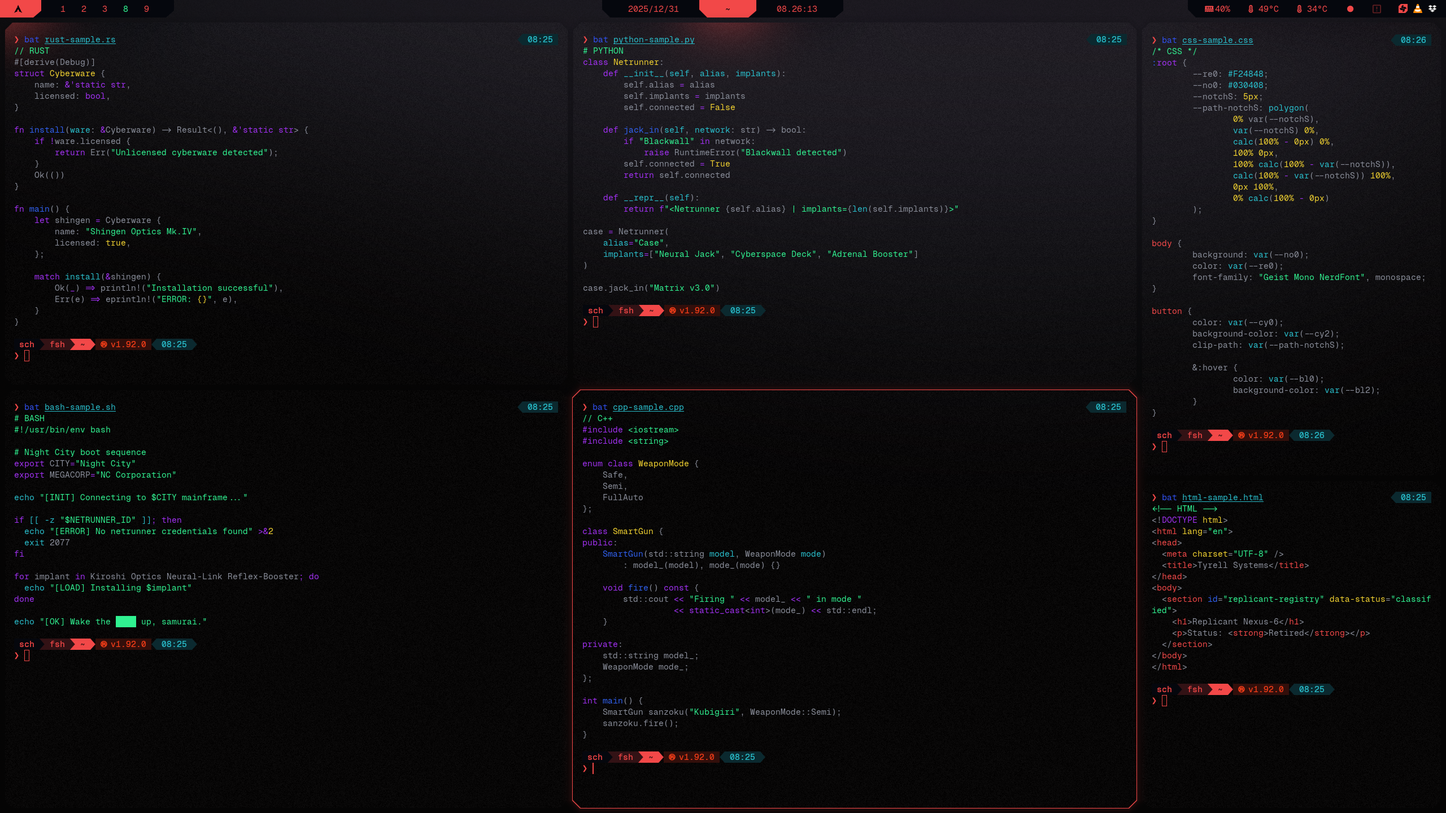
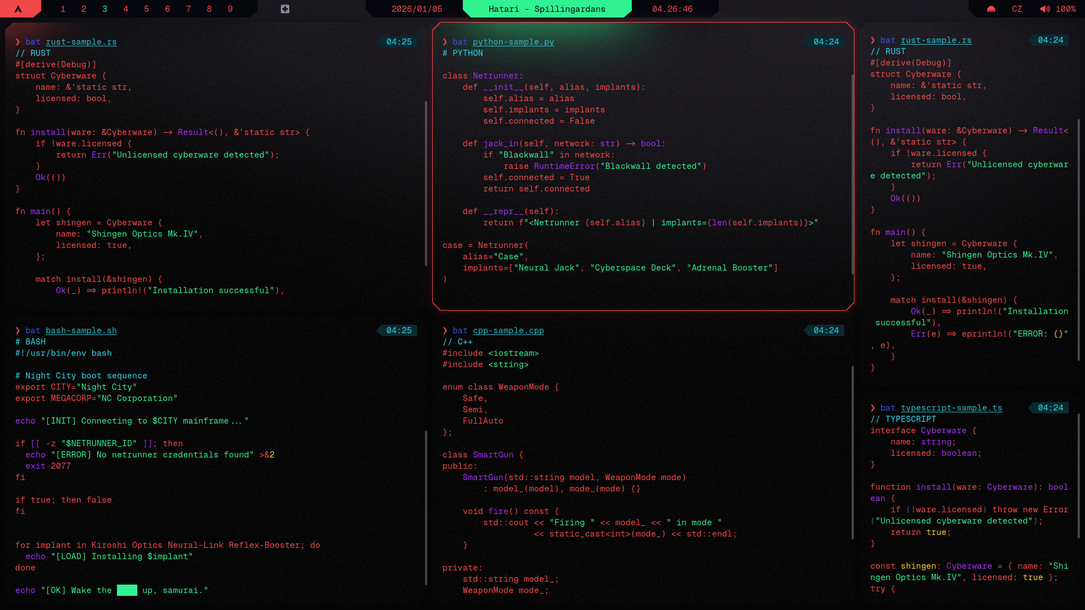
fix: unify micro syntax highlight
docs: redo screenshots from 1440p to 1080p

diff --git a/README.md b/README.md
@@ -151,6 +151,7 @@ This project builds on the work of many talented creators:
 **Theming & aesthetics:**
 - [Catppuccin](https://github.com/catppuccin/catppuccin) - This project showed me what's possible with themes, it's overall scope is inspiration and aspiration at the same time
 - [Cyberpunk 2077 UI Bible](https://www.behance.net/gallery/118663901/Cyberpunk-2077User-Interface-(Part-1)) - Endless source of inspiration and ideas (s/o [Vladimír Vilimovský](https://www.behance.net/vladimirvilimovsky), [Jakub Knapik](https://www.linkedin.com/in/jakub-knapik-56741931), [Robert Bielecki](http://robertbielecki.com/), [Imanol Delago Salazar](https://www.artstation.com/artwork/WKzrBG), [Marcin Stepien](https://www.artstation.com/artwork/GaVGaz), [Simon Besombes](https://www.artstation.com/artwork/285r4a), [Kamil Piotrowski](https://www.artstation.com/artwork/285lYa), [Zuzanna Dabrowa](https://www.artstation.com/artwork/d8RnZ1), [Wojciech Chalinski](https://www.artstation.com/artwork/2855DY), [Pawel Matuszak](https://www.artstation.com/artwork/NxeNDN), [Mateusz Walus](https://www.artstation.com/artwork/5X4OLO) and the army of unnamed and uncredited from CD Projekt RED, who made Cyberpunk 2077 possible)
+- tonsky's [Minimalist Syntax Highlight philosophy](https://tonsky.me/blog/syntax-highlighting/) - 
 
 **Community:**
 - [r/unixporn](https://reddit.com/r/unixporn) - Their [feedback](https://www.reddit.com/r/unixporn/comments/1ouzvfy/hyprland_cybrland_v010/) was the biggest impulse for me to release the dotfiles.
